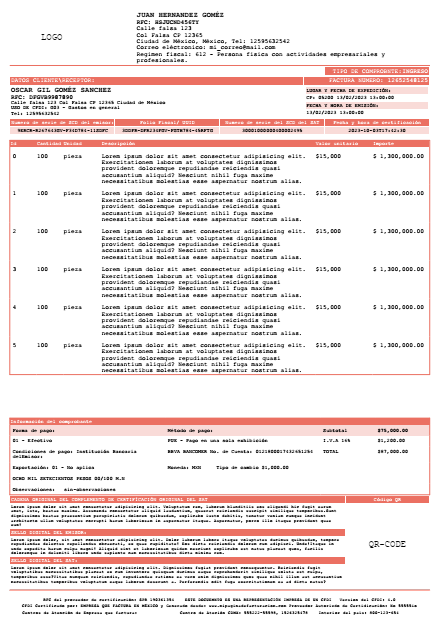
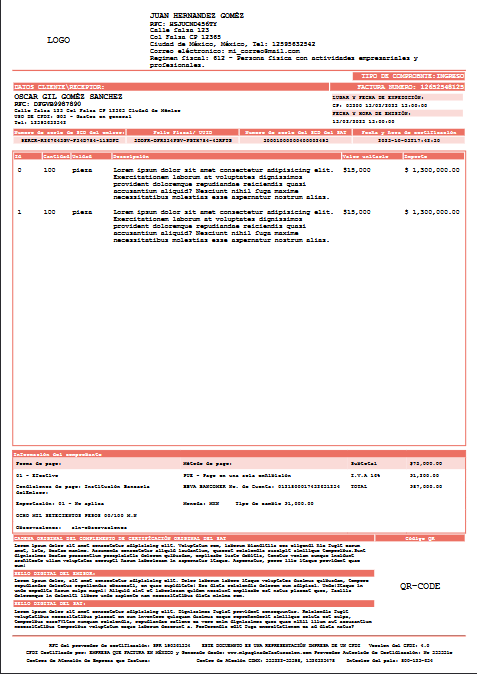
img

diff --git a/gestorpdf/README.md b/gestorpdf/README.md
@@ -25,4 +25,4 @@ Clase_usada: /app/Clases/Mpdf.php
 
 ```
 
-![alt text](image.png)
+![alt text](public/imgs/demo_factura_una_pagina.png)
